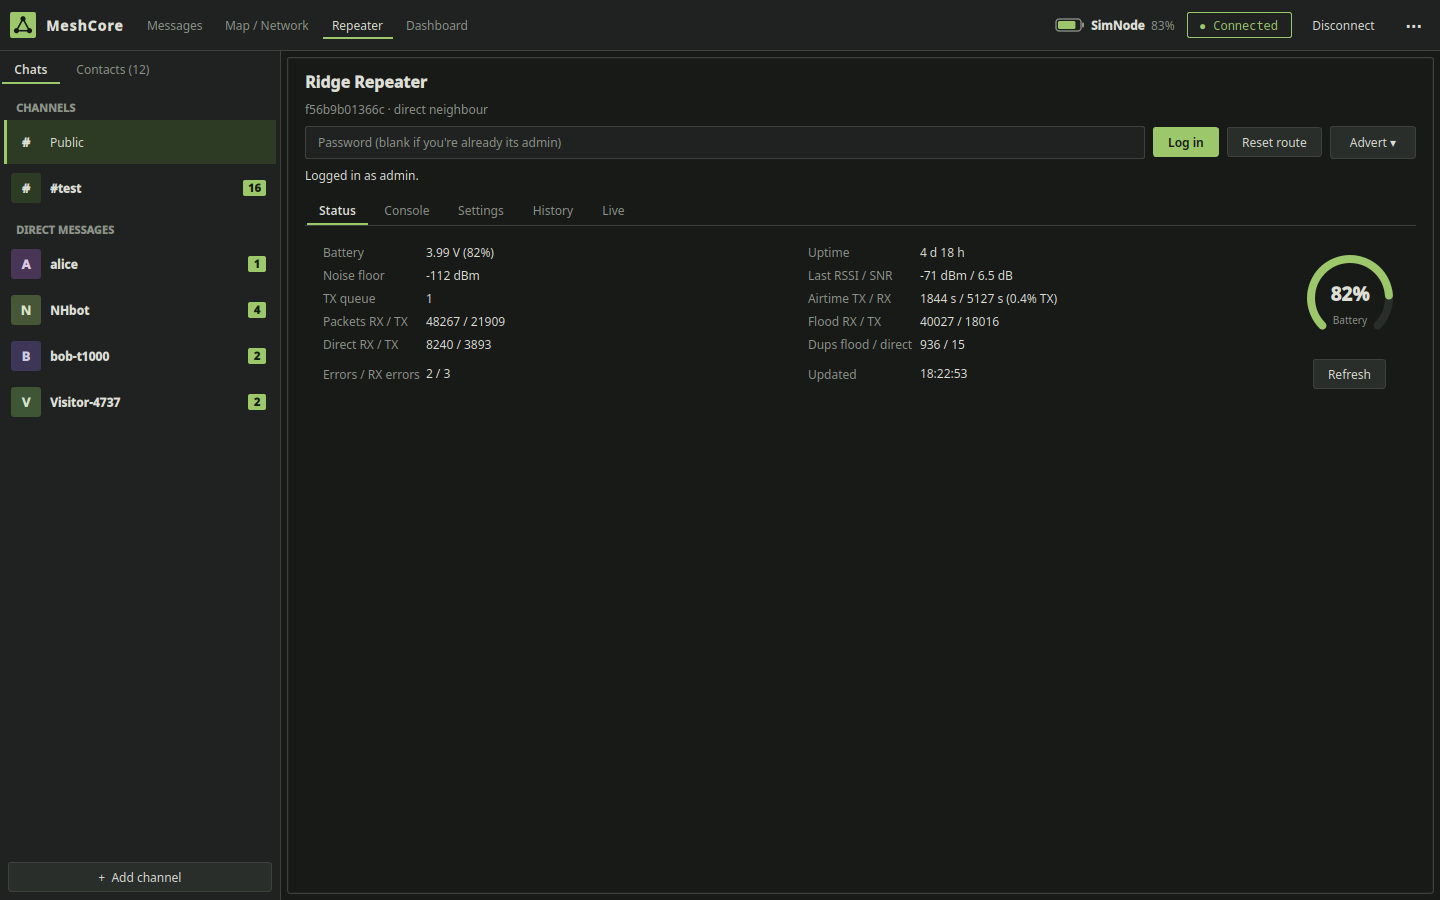
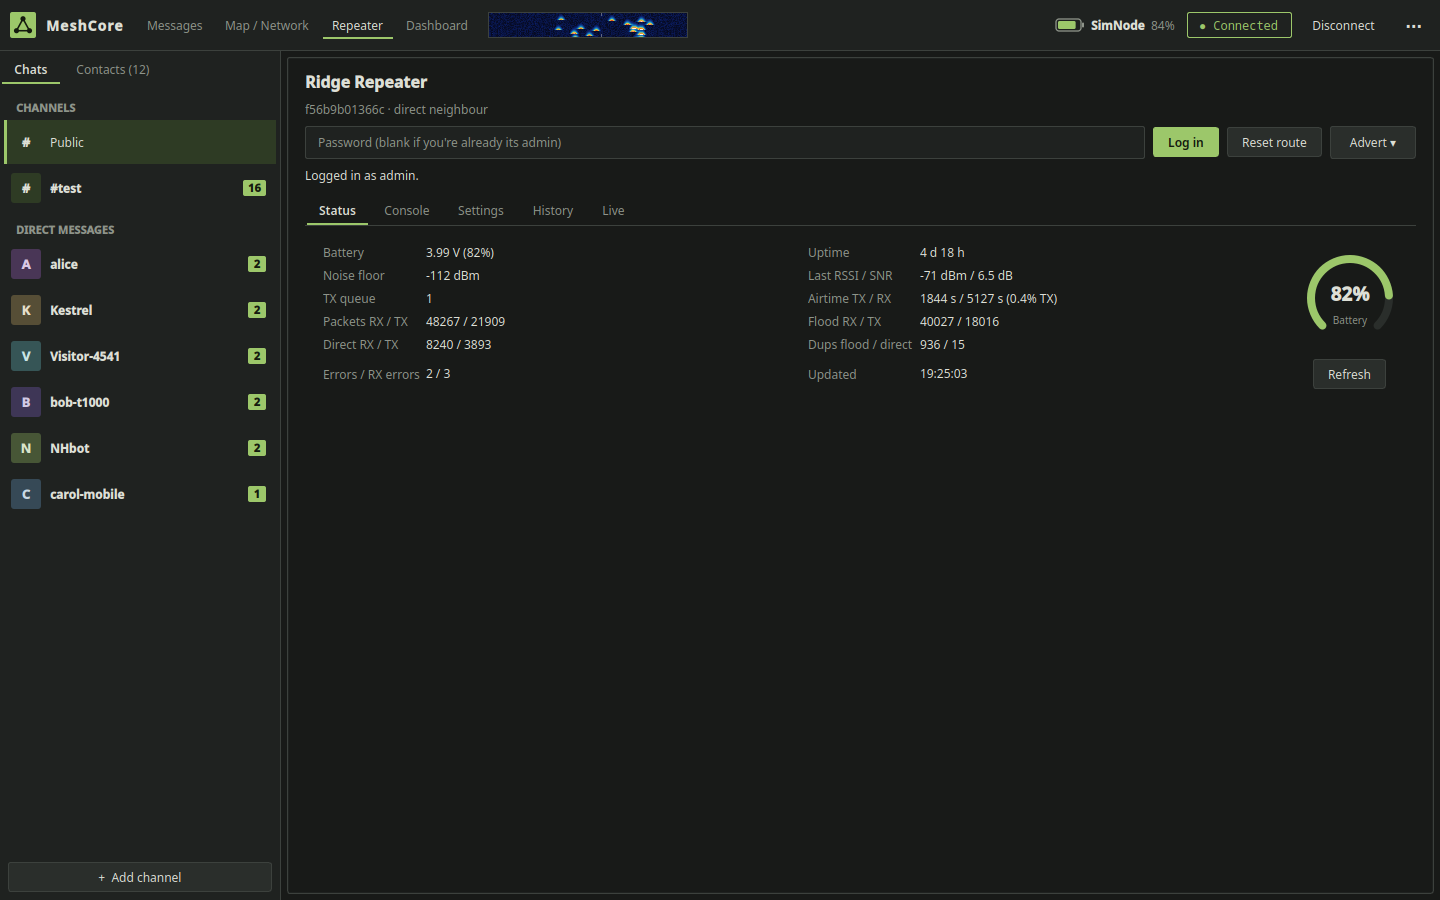
v0.4.3: packet waterfall with an expandable big window; screenshots and changelog updated

Changed region(s): [[0.0, 0.3422, 0.0938, 0.5911], [0.3438, 0.0, 0.5, 0.0622], [0.1562, 0.4667, 0.1875, 0.56]]

diff --git a/README.md b/README.md
@@ -25,6 +25,7 @@ A desktop chat app for a MeshCore node running companion firmware, over Bluetoot
 - Map with type icons, clustering, live packet paths, and full details on hover or click
 - Messages, map, repeater and dashboard as tiled panels: open several at once, close each individually, and drag a title onto another panel to swap them
 - Live traffic: every packet your connected node receives, as it arrives, on the Dashboard
+- Packet waterfall in the toolbar, like an SDR's: each packet heard lands by its SNR and scrolls down; double-click it for a big window with minutes of history
 - Dashboard with nodes heard, busiest repeaters and channel activity
 - Map / Network tab: switch between the map, where each packet your node hears draws its path, and a graph of who relays through whom
 - Trace message: with the map open, double-click a received message to draw the path it took in red
@@ -45,6 +46,19 @@ acks and other people's messages, so you can see how busy the mesh is around you
 count cover the current session.
 
 ![Live packets on the Dashboard](docs/dashboard.png)
+
+## Packet waterfall
+
+The strip in the toolbar, right after the view chips, is a waterfall of the packets your node hears, drawn like an SDR's.
+Across is SNR, from −20 dB on the left to +15 dB on the right; down is time, newest at the top. Each packet leaves a
+hot spot (blue → cyan → yellow → red as it gets stronger) that scrolls away, so a quiet mesh stays dark and a busy
+one lights up. Hover it for the last minute's packet count and SNR, click it for the Dashboard.
+
+Double-click it for the **Packet waterfall** window: the same picture, bigger, with SNR and time axes and about four
+minutes on screen. It opens already filled in from the last 15 minutes, and hovering a spot shows that packet's time,
+type, SNR, RSSI, hops and path. It's a separate window, so it can stay open beside the app.
+
+![Packet waterfall window](docs/waterfall.png)
 
 ## Install
 
